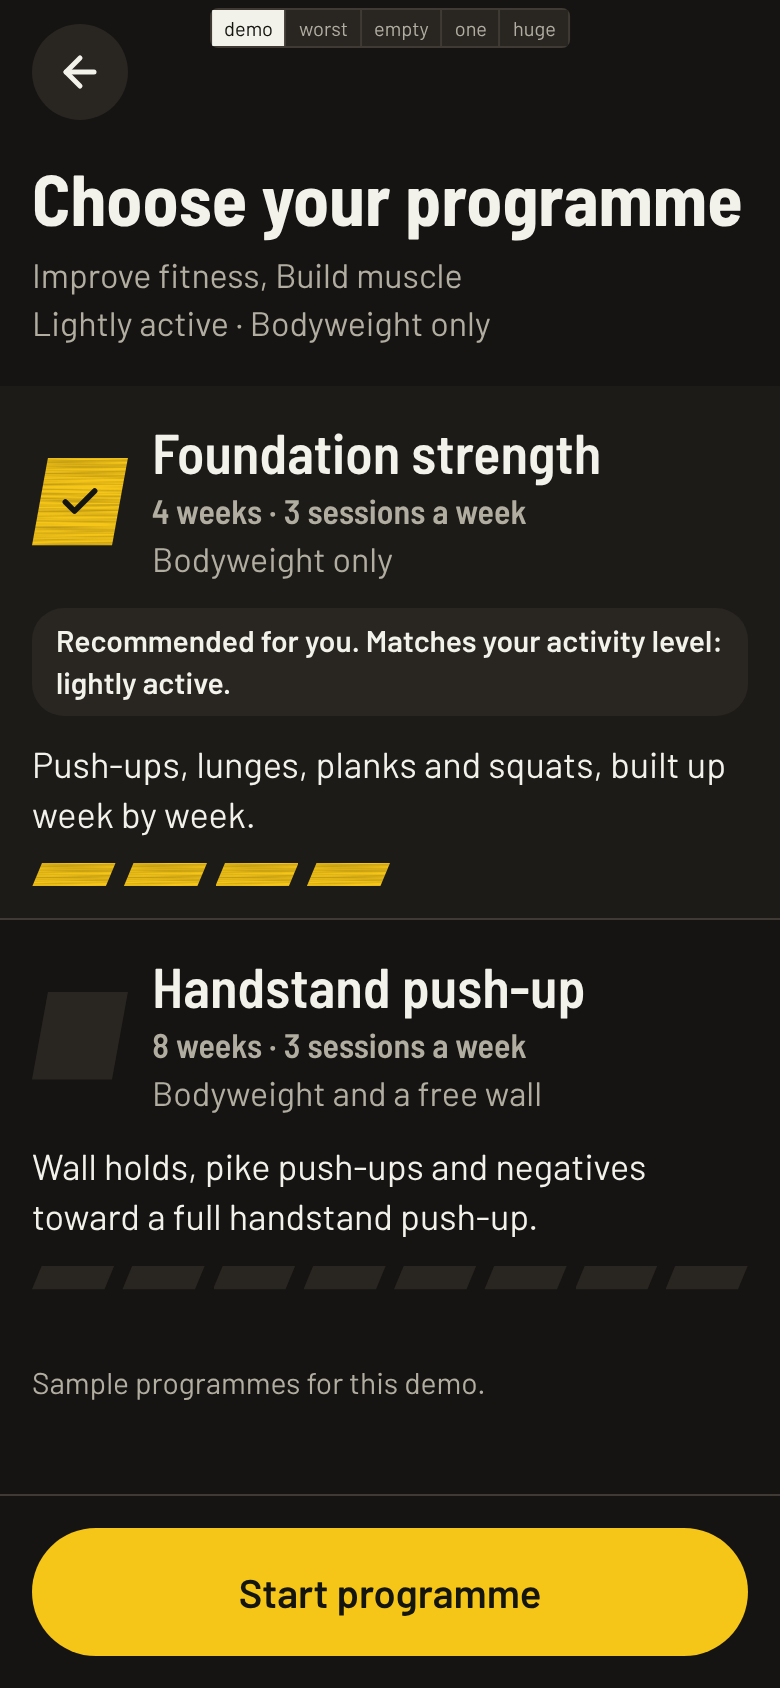
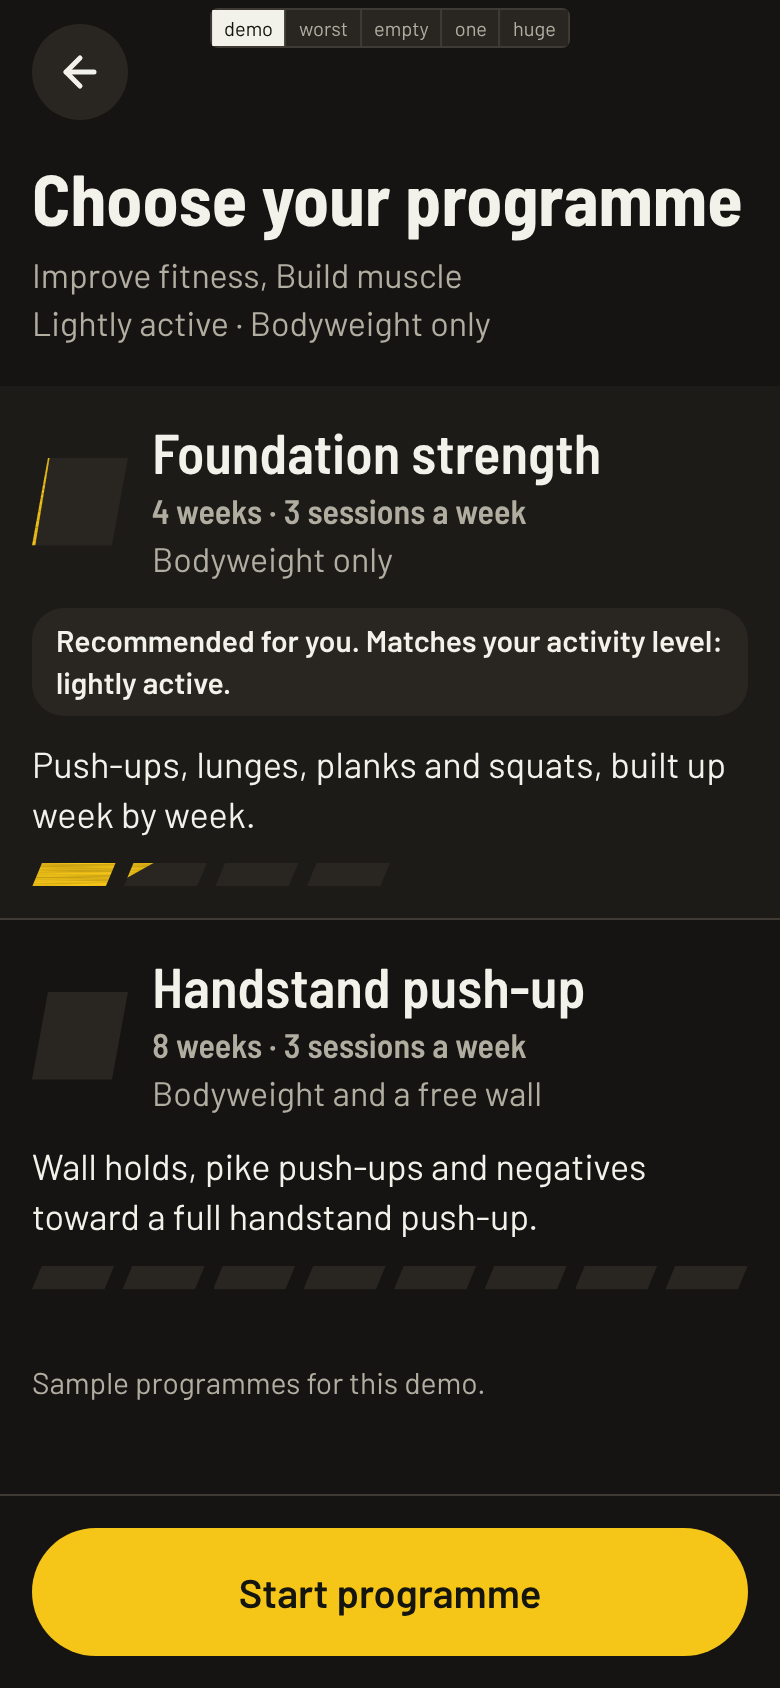
Skill goal gets its own page and leaves the goals list; it picks the recommended programme
Claude-Session: https://claude.ai/code/session_01QSdbTS6XM65aGeFM4K1ddu

Changed region(s): [[0.1538, 0.4929, 0.4923, 0.5237], [0.0308, 0.2464, 0.1538, 0.3389]]

diff --git a/tests/onboarding.spec.ts b/tests/onboarding.spec.ts
@@ -111,18 +111,54 @@ test('a lightly active user is recommended foundation strength and can start it'
   await expect(page.getByRole('radio', { name: /Handstand push-up/ })).toBeChecked()
 })
 
-test('a first goal of learning a skill recommends the handstand programme, with the reason', async ({ page }) => {
+test('a skill goal is picked on its own page, not in the goals list, and recommends the handstand programme', async ({ page }) => {
   await openRow(page, /^Goals/)
-  await page.getByRole('checkbox', { name: /Learn a skill/ }).click()
+  await expect(page.getByRole('checkbox', { name: /handstand/i })).toHaveCount(0)
+  await page.keyboard.press('Escape')
+  await page.waitForTimeout(400)
+  await expect(page.getByTestId('answer-skill')).toHaveText('Add')
+  await page.getByRole('button', { name: /^Skill goal/ }).click()
+  await expect(page.getByTestId('skill-goal')).toBeVisible()
+  await expect(page.getByRole('heading', { level: 1 })).toHaveText('Pick a skill goal')
+  await expect(page.getByRole('radio', { name: 'No skill goal right now' })).toHaveAttribute('aria-checked', 'true')
+  await page.getByRole('radio', { name: /Handstand push-up/ }).click()
+  await page.getByTestId('skill-save').click()
+  await expect(page.getByTestId('setup')).toBeVisible()
+  await expect(page.getByTestId('answer-skill')).toHaveText('Handstand push-up')
+  await openRow(page, /^Goals/)
+  await page.getByRole('checkbox', { name: /Improve fitness/ }).click()
   await page.getByRole('button', { name: 'Save goals' }).click()
   await openRow(page, /^Activity level/)
-  await page.getByRole('radio', { name: /Lightly active/ }).click()
+  await page.getByRole('radio', { name: /Mostly sitting/ }).click()
   await openRow(page, /^Equipment/)
   await page.getByRole('checkbox', { name: /None, bodyweight only/ }).click()
   await page.getByRole('button', { name: 'Save equipment' }).click()
   await create(page).click()
   await expect(page.getByRole('radio', { name: /Handstand push-up/ })).toBeChecked()
-  await expect(page.getByText('Matches your first goal: learn a skill')).toBeVisible()
+  await expect(page.getByText('Matches your skill goal: handstand push-up')).toBeVisible()
+})
+
+test('the skill page can go back unchanged and can clear the choice again', async ({ page }) => {
+  await page.getByRole('button', { name: /^Skill goal/ }).click()
+  await page.getByTestId('skill-back').click()
+  await expect(page.getByTestId('answer-skill')).toHaveText('Add')
+  await page.getByRole('button', { name: /^Skill goal/ }).click()
+  await page.getByRole('radio', { name: /Handstand push-up/ }).click()
+  await page.getByTestId('skill-save').click()
+  await page.getByRole('button', { name: /^Skill goal/ }).click()
+  await page.getByRole('radio', { name: 'No skill goal right now' }).click()
+  await page.getByTestId('skill-save').click()
+  await expect(page.getByTestId('answer-skill')).toHaveText('Add')
+})
+
+test('the skill page holds up at 320 with a long skill name', async ({ page }) => {
+  await page.setViewportSize({ width: 320, height: 640 })
+  await page.goto('/?stage=skillgoal&data=worst')
+  await expect(page.getByTestId('skill-goal')).toBeVisible()
+  expect(await page.evaluate(() => document.documentElement.scrollWidth <= document.documentElement.clientWidth)).toBe(true)
+  for (const b of await page.getByTestId('skill-goal').getByRole('radio').all()) {
+    expect((await b.boundingBox())!.height).toBeGreaterThanOrEqual(48)
+  }
 })
 
 test('an eight week programme draws a strip twice as long as a four week one', async ({ page }) => {

diff --git a/src/screens/SkillGoalScreen.tsx b/src/screens/SkillGoalScreen.tsx
@@ -1,0 +1,90 @@
+import { ArrowLeft } from 'lucide-react'
+import { useState, type CSSProperties } from 'react'
+import { EmptyState } from '../components/EmptyState'
+import { EmptySlots } from '../components/EmptySlots'
+import { OptionRow } from '../components/OptionRow'
+import { SKILL_GOALS, type Answers } from '../onboarding'
+
+interface SkillGoalScreenProps {
+  answers: Answers
+  onChange: (next: Answers) => void
+  /** Back to set up, with or without a change. */
+  onBack: () => void
+}
+
+/**
+ * A page of its own for picking one skill to work toward. The choice picks the programme that is
+ * recommended, and later the exercises suggested. More skills are added to the fixture list.
+ */
+export function SkillGoalScreen({ answers, onChange, onBack }: SkillGoalScreenProps) {
+  const [choice, setChoice] = useState<string | null>(answers.skillGoal)
+  const save = () => {
+    onChange({ ...answers, skillGoal: choice })
+    onBack()
+  }
+  return (
+    <div
+      className="mx-auto flex min-h-dvh w-full max-w-[480px] flex-col"
+      style={{ '--tape': 'var(--color-tape-reps)' } as CSSProperties}
+      data-testid="skill-goal"
+    >
+      <main className="flex flex-1 flex-col gap-6 px-4 pt-[max(0.75rem,env(safe-area-inset-top))] pb-40">
+        <button
+          type="button"
+          className="press grid size-12 place-items-center rounded-full bg-surface-2"
+          aria-label="Back to set up"
+          onClick={onBack}
+          data-testid="skill-back"
+        >
+          <ArrowLeft size={24} strokeWidth={2.5} aria-hidden="true" />
+        </button>
+        <header className="flex flex-col gap-2">
+          <h1 className="font-display m-0 text-[36px] leading-[1.05] font-bold text-balance">Pick a skill goal</h1>
+          <p className="m-0 text-lg text-pretty text-muted">
+            Optional. A skill to aim for changes the programme we suggest and, later, the exercises.
+          </p>
+        </header>
+
+        {SKILL_GOALS.length === 0 ? (
+          <EmptyState
+            illustration={<EmptySlots />}
+            title="No skill goals yet"
+            body="Skill goals will be listed here as they are added."
+            actionLabel="Back to set up"
+            onAction={onBack}
+          />
+        ) : (
+          <div role="radiogroup" aria-label="Skill goal">
+            <OptionRow
+              role="radio"
+              checked={choice === null}
+              label="No skill goal right now"
+              onClick={() => setChoice(null)}
+            />
+            {SKILL_GOALS.map((s) => (
+              <OptionRow
+                key={s.id}
+                role="radio"
+                checked={choice === s.id}
+                label={s.label}
+                detail={s.detail}
+                onClick={() => setChoice(s.id)}
+              />
+            ))}
+          </div>
+        )}
+      </main>
+
+      <footer className="fixed inset-x-0 bottom-0 mx-auto w-full max-w-[480px] border-t border-line bg-ground px-4 pt-3 pb-[max(1rem,env(safe-area-inset-bottom))]">
+        <button
+          type="button"
+          className="press h-16 w-full rounded-full bg-(--tape) text-xl font-bold text-on-tape short:h-14"
+          onClick={save}
+          data-testid="skill-save"
+        >
+          Save skill goal
+        </button>
+      </footer>
+    </div>
+  )
+}

diff --git a/src/screens/SetupScreen.tsx b/src/screens/SetupScreen.tsx
@@ -9,10 +9,13 @@ interface SetupScreenProps {
   answers: Answers
   onChange: (next: Answers) => void
   onCreate: () => void
+  /** Opens the page for picking a skill goal. */
+  onOpenSkillGoal: () => void
 }
 
 const ROWS: { id: RowId; label: string; why: string; sheet: string }[] = [
   { id: 'goals', label: 'Goals', why: 'Decides which programmes we suggest', sheet: 'Choose goals' },
+  { id: 'skill', label: 'Skill goal', why: 'Optional. Picks a programme built for it', sheet: 'Pick a skill goal' },
   { id: 'activity', label: 'Activity level', why: 'Sets how hard your first weeks start', sheet: 'Choose activity level' },
   { id: 'equipment', label: 'Equipment', why: 'So we only plan what you can do', sheet: 'Choose equipment' },
   { id: 'limits', label: 'Limits', why: 'Optional. Rules exercises out', sheet: 'Choose limits' },
@@ -20,7 +23,7 @@ const ROWS: { id: RowId; label: string; why: string; sheet: string }[] = [
   { id: 'body', label: 'Weight and height', why: 'Optional. Stays on this device', sheet: 'Add measurements' },
 ]
 
-export function SetupScreen({ answers, onChange, onCreate }: SetupScreenProps) {
+export function SetupScreen({ answers, onChange, onCreate, onOpenSkillGoal }: SetupScreenProps) {
   const [open, setOpen] = useState<RowId | null>(null)
   const [units, setUnits] = useState<Units>(loadUnits)
   const changeUnits = (u: Units) => {
@@ -59,7 +62,7 @@ export function SetupScreen({ answers, onChange, onCreate }: SetupScreenProps) {
                 <button
                   type="button"
                   className="press flex min-h-[88px] w-full items-center gap-3 py-3 text-left short:min-h-[76px]"
-                  onClick={() => setOpen(row.id)}
+                  onClick={() => (row.id === 'skill' ? onOpenSkillGoal() : setOpen(row.id))}
                 >
                   <Slot n={i + 1} filled={filled} />
                   <span className="flex min-w-0 flex-1 flex-col gap-0.5">
@@ -69,7 +72,7 @@ export function SetupScreen({ answers, onChange, onCreate }: SetupScreenProps) {
                       className={`line-clamp-2 text-lg [overflow-wrap:anywhere] ${value ? 'text-ink' : 'font-semibold text-(--tape)'}`}
                       data-testid={`answer-${row.id}`}
                     >
-                      {value ?? (row.id === 'body' || row.id === 'style' ? 'Add' : 'Choose')}
+                      {value ?? (row.id === 'body' || row.id === 'style' || row.id === 'skill' ? 'Add' : 'Choose')}
                     </span>
                   </span>
                   <ChevronRight size={24} className="shrink-0 text-muted" aria-hidden="true" />

diff --git a/src/onboarding.ts b/src/onboarding.ts
@@ -22,6 +22,12 @@ export interface Programme {
 }
 
 export const GOALS = data.goals as Option[]
+
+/** A specific skill someone can aim for. Each points at the programme built for it. */
+export interface SkillGoal extends Option {
+  programmeId: string
+}
+export const SKILL_GOALS = ((data as { skillGoals?: SkillGoal[] }).skillGoals ?? []) as SkillGoal[]
 export const ACTIVITY = data.activity as Option[]
 export const EQUIPMENT = data.equipment as Option[]
 export const LIMITS = data.limits as Option[]
@@ -50,6 +56,8 @@ export interface Answers {
   heightCm: number | null
   /** Training styles in order of preference. Optional. */
   styles: string[]
+  /** One optional skill goal, chosen on its own page. It decides the recommended programme. */
+  skillGoal: string | null
 }
 
 export const EMPTY_ANSWERS: Answers = {
@@ -62,9 +70,10 @@ export const EMPTY_ANSWERS: Answers = {
   weightKg: null,
   heightCm: null,
   styles: [],
+  skillGoal: null,
 }
 
-export type RowId = 'goals' | 'activity' | 'equipment' | 'limits' | 'style' | 'body'
+export type RowId = 'goals' | 'activity' | 'equipment' | 'limits' | 'style' | 'body' | 'skill'
 
 export function labelOf(options: Option[], id: string): string {
   const o = options.find((x) => x.id === id)
@@ -87,6 +96,8 @@ export function summaryText(a: Answers, row: RowId, units: Units = DEFAULT_UNITS
       return a.activity ? labelOf(ACTIVITY, a.activity) : null
     case 'equipment':
       return a.equipment.length ? a.equipment.map((e) => labelOf(EQUIPMENT, e)).join(', ') : null
+    case 'skill':
+      return a.skillGoal ? labelOf(SKILL_GOALS, a.skillGoal) : null
     case 'style':
       return a.styles.length ? a.styles.map((x) => labelOf(STYLES, x)).join(', ') : null
     case 'body':
@@ -116,8 +127,9 @@ export function pullupConsequence(p: Answers['pullup']): string {
 
 export function recommended(a: Answers): { id: string; reason: string } | null {
   if (PROGRAMMES.length === 0) return null
-  if (a.goals[0] === 'skill') {
-    return { id: 'handstand', reason: 'Matches your first goal: learn a skill' }
+  const skill = SKILL_GOALS.find((s) => s.id === a.skillGoal)
+  if (skill && PROGRAMMES.some((p) => p.id === skill.programmeId)) {
+    return { id: skill.programmeId, reason: `Matches your skill goal: ${skill.label.toLowerCase()}` }
   }
   const level = a.activity ?? 'sitting'
   if (a.styles.length > 0) {

diff --git a/src/App.tsx b/src/App.tsx
@@ -20,12 +20,13 @@ import { TabBar, type TabId } from './components/TabBar'
 const ExerciseDetailScreen = lazy(() => import('./screens/ExerciseDetailScreen').then((m) => ({ default: m.ExerciseDetailScreen })))
 const ExercisesScreen = lazy(() => import('./screens/ExercisesScreen').then((m) => ({ default: m.ExercisesScreen })))
 const MyProgrammeScreen = lazy(() => import('./screens/MyProgrammeScreen').then((m) => ({ default: m.MyProgrammeScreen })))
+const SkillGoalScreen = lazy(() => import('./screens/SkillGoalScreen').then((m) => ({ default: m.SkillGoalScreen })))
 const RoutineScreen = lazy(() => import('./screens/RoutineScreen').then((m) => ({ default: m.RoutineScreen })))
 const PlayerScreen = lazy(() => import('./screens/PlayerScreen').then((m) => ({ default: m.PlayerScreen })))
 const ProgressScreen = lazy(() => import('./screens/ProgressScreen').then((m) => ({ default: m.ProgressScreen })))
 
-type Stage = 'setup' | 'programme' | 'reminders' | TabId | 'player' | 'routine' | 'exercise' | 'myprogramme'
-const STAGES: Stage[] = ['programme', 'reminders', 'today', 'exercises', 'progress', 'player', 'routine', 'exercise', 'myprogramme']
+type Stage = 'setup' | 'skillgoal' | 'programme' | 'reminders' | TabId | 'player' | 'routine' | 'exercise' | 'myprogramme'
+const STAGES: Stage[] = ['skillgoal', 'programme', 'reminders', 'today', 'exercises', 'progress', 'player', 'routine', 'exercise', 'myprogramme']
 
 function initialStage(): Stage {
   const s = new URLSearchParams(window.location.search).get('stage')
@@ -131,7 +132,16 @@ function Screen() {
   }, [])
 
   if (stage === 'setup')
-    return <SetupScreen answers={answers} onChange={setAnswers} onCreate={() => setStage('programme')} />
+    return (
+      <SetupScreen
+        answers={answers}
+        onChange={setAnswers}
+        onCreate={() => setStage('programme')}
+        onOpenSkillGoal={() => setStage('skillgoal')}
+      />
+    )
+  if (stage === 'skillgoal')
+    return <SkillGoalScreen answers={answers} onChange={setAnswers} onBack={() => setStage('setup')} />
   if (stage === 'programme')
     return (
       <ProgrammeScreen

diff --git a/src/components/OptionRow.tsx b/src/components/OptionRow.tsx
@@ -26,8 +26,8 @@ export function OptionRow({ role, checked, disabled, label, detail, icon, rank, 
       <Slot n={0} filled={checked} rank={rank} />
       {icon && <span className="grid size-6 shrink-0 place-items-center text-muted">{icon}</span>}
       <span className="flex min-w-0 flex-1 flex-col">
-        <span className="text-xl leading-tight font-semibold">{label}</span>
-        {detail && <span className="text-[15px] text-muted">{detail}</span>}
+        <span className="text-xl leading-tight font-semibold [overflow-wrap:anywhere]">{label}</span>
+        {detail && <span className="text-[15px] text-muted [overflow-wrap:anywhere]">{detail}</span>}
       </span>
     </button>
   )
